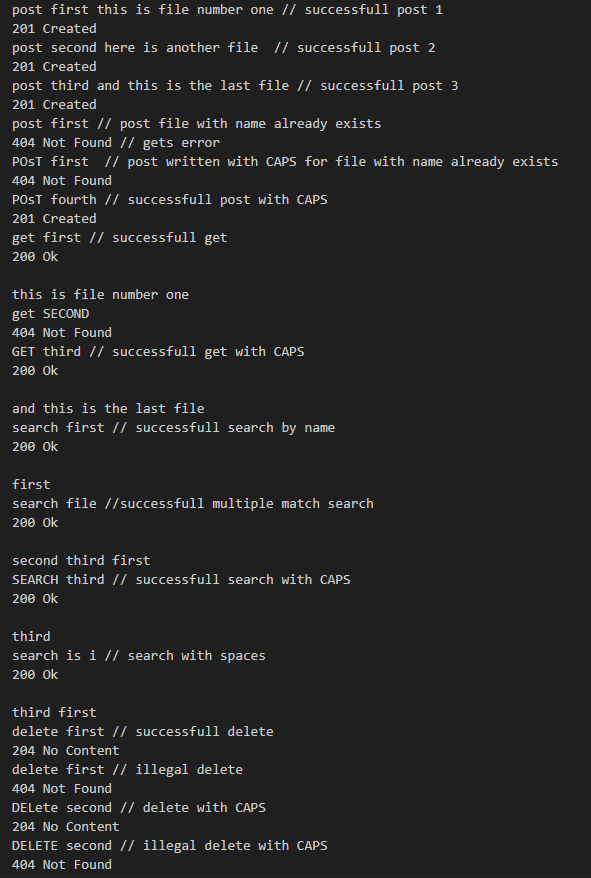
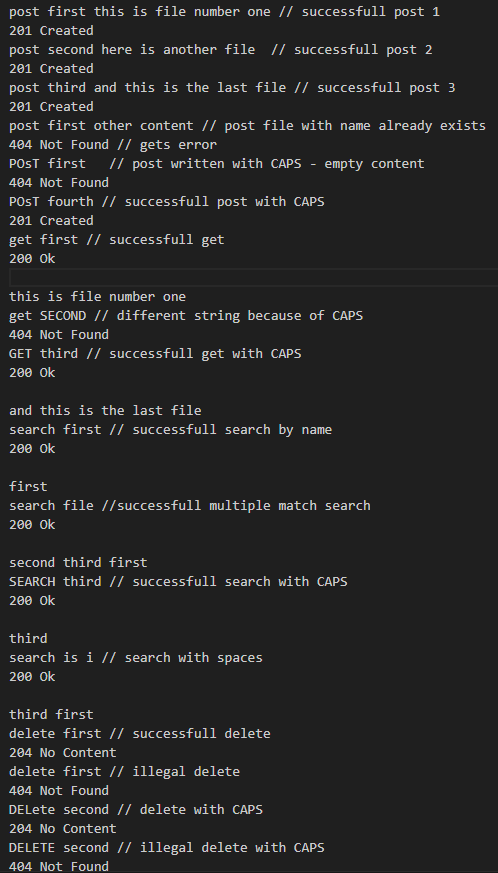
update

diff --git a/README.md b/README.md
@@ -5,7 +5,7 @@ This is the second task out of a full google drive clone project.
 
 
 ## Key functionalities 📂
-- Post command : Gets file name and content. compress the file using RLE compression and adss it to a folder using enviroment variable
+- Post command : Gets file name and content. compress the file using RLE compression and adds it to a folder using enviroment variable
 - Get command : Gets file name. find the file in the folder, decompress it and return it
 - Search command : Gets a text query. search for files containing the query or has the query in the name and return a list of file names
 - Delete command : Gets a file name. finds it in the folder and deletes it.
@@ -24,9 +24,9 @@ This is the second task out of a full google drive clone project.
        -  docker compose up
 
 
-   * run clients 
+   * run clients (seperated terminals)
        - docker compose run --rm --service-ports client_cpp
-       - docker compose run --rm --service-ports client_py
+       - docker compose run --rm --service-ports client_python
 
 
 
@@ -37,7 +37,7 @@ Test cover:
 * Get command tests - file creation test, folder creation test .
 * Search command tests - single match, no match and multiple match tests. 
 * Delete command tests - simple delete for successfull delete and illegal delete for an attempt to delete a file that do not exist.
-* Sockers tests - These tests verify that the server correctly accepts clients, handles multiple clients in order, and properly manages cases where some client connections fail.
+* Sockets tests - These tests verify that the server correctly accepts clients, handles multiple clients in order, and properly manages cases where some client connections fail.
 
 ![tests passed image](images/tests_passed.png)
 
@@ -48,22 +48,27 @@ Test cover:
      2. docker compose run --rm tests bash
      3. ls /usr/src/app/newFiles
      4. rm /usr/src/app/newFiles/*
-     5. docker compose build
-     6. docker compose run --rm tests ./runTests
+     5. exit
+     6. docker compose build
+     7. docker compose run --rm tests ./runTests
 
 
 ## Usage 💻
 
-POST [File name] [File content]
-Get [File name] 
-Search [Your Query]
-Delete [File name]
+-POST [File name] [File content]
+
+-Get [File name] 
+
+-Search [Your Query]
+
+-Delete [File name]
 
 Dependencies
 
 - c++17 standard library
  
 ## Run example 🏃♂
+
 
 
 -- ![Run example](images/Run_example.png) --
@@ -74,14 +79,18 @@ Dependencies
 
 -- ![multiple clients](images/multi_clients.png) --
 
--- ![?](images/my_image.png) -- 
 
--- ![alt text](images/my_image.png) --
 
 
 
 
 ## File Structure 📁
+
+
+
+
+-- ![Project folder structure diagram](images/diagram.png) --
+
 
 - AddCommand.h / AddCommand.cpp : defines the AddCommand class
 
@@ -95,37 +104,36 @@ Dependencies
 
 - CommandFactory.cpp / CommandFactory.h : registers different command objects with a CommandManager so they can be executed by name at runtime.
 
-- consoleCommunication.cpp / ConsoleCommunication.h : a class that reads input from the console and writes output to it.
+- ConsoleCommunication.cpp / ConsoleCommunication.h : a class that reads input from the console and writes output to it.
 
-- ICommand.h : base interface for all commands
+- ICommand.cpp / ICommand.h : base interface for all commands
 
 - Config.h : This header file defines constant strings for command names and corresponding response messages.
 
 - Compressor.h / Compressor.cpp : does RLE compression and decompression
 
-- parser.cpp / parser.h : extracts the command, arguments, and query from an input line, validates the input, and handles special cases
+- Parser.cpp / Parser.h : extracts the command, arguments, and query from an input line, validates the input, and handles special cases
 
 - tcp_c.cpp : a client implemented in CPP
 
 - TCP_Client.py : a client implemented in Python
 
-- main_helper_tests.h / main_helper_tests.cpp : helper code for running the tests
+- CMakeLists.txt : creates the executables for tests
 
-- CMakeLists.txt : builds the project and creates the executables
+- docker-compose.yml/ dockerfiles for server/clients : Docker configuration files for building and running the server and client containers.
 
-- docker-compose.yml/ dockerfile.server/clients : Docker configuration files for building and running the server and client containers.
+- RealServer.cpp : TCP server handling multiple client connections and processing commands.
 
-- main.h / main.cpp : program entry point; reads input and runs the commands
+- handleClient.cpp/HandleClient.h : responsible to handle the clients
 
-- Server.cpp : TCP server handling multiple client connections and processing commands.
+- TCPserverCommunication.cpp / TCPserverCommunication.h : responsible for the communication with the sockets
 
-- tcp_c.cpp : C++ TCP client for communicating with the server.
+- ICommunication.h: Interface for all communication classes
 
-- TCP_Client.py : Python TCP client for interacting with the server.
-
-
+- test.cpp / docker-compose.yml(for tests) : tests to check codes functionallity
 
 
+ 
 
 
 
